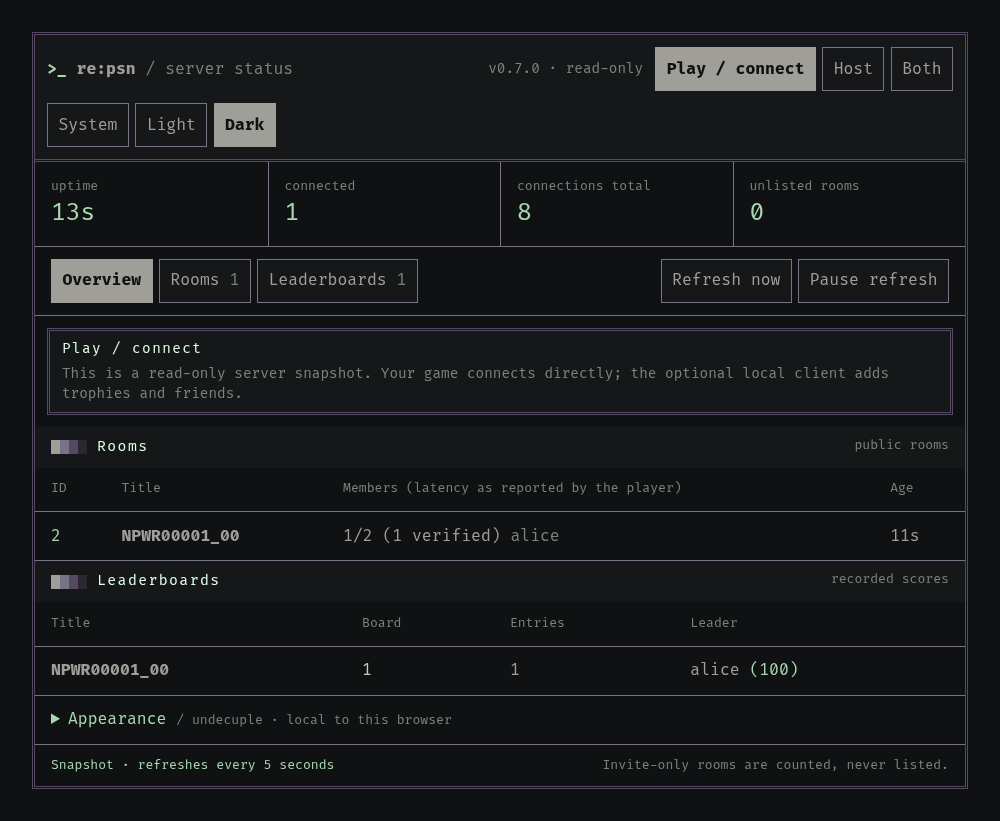
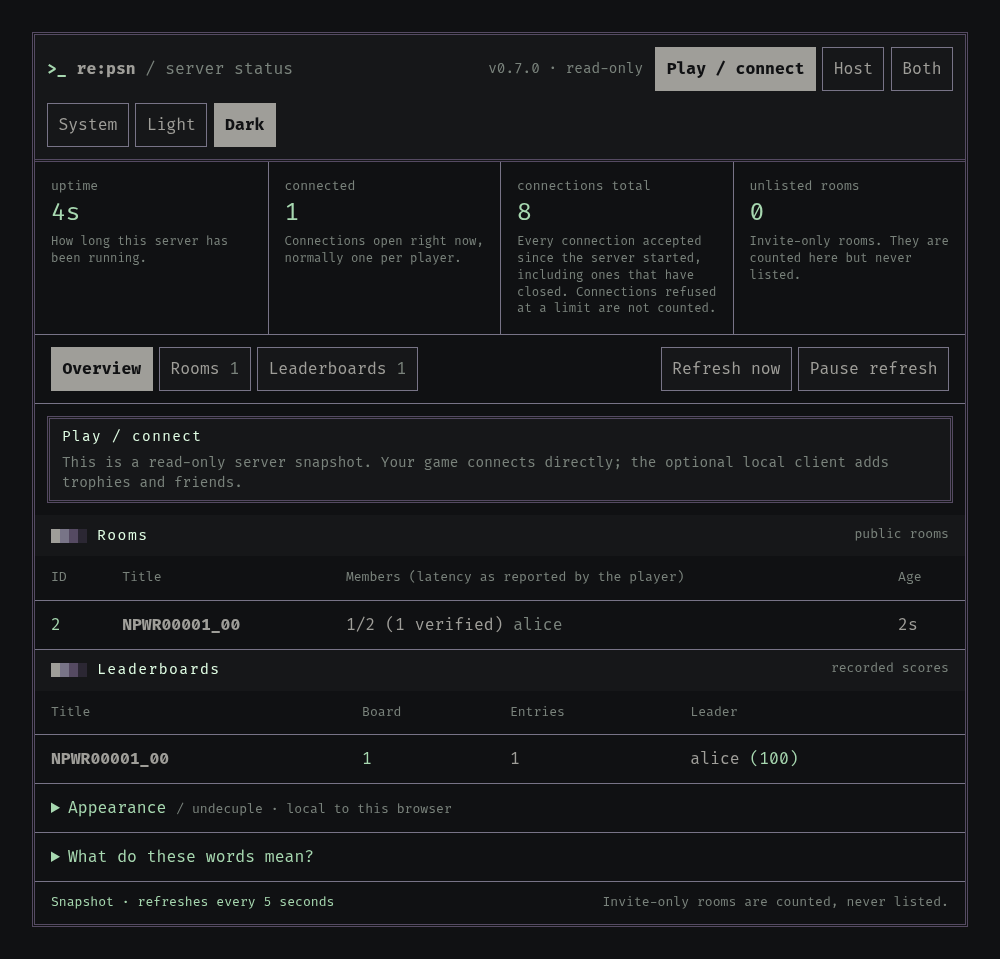
server: explain the numbers on the status page in plain words (#199)
Each number at the top of the status page now has a one-line caption saying what it counts, linked to the number for screen readers, and a section at the bottom explains the room, member, leaderboard and host terms. It needs no script. The status screenshot is retaken to match.

diff --git a/server/status.html b/server/status.html
@@ -26,10 +26,10 @@
     </div>
   </header>
   <div class="summary" aria-label="Server summary">
-    <p><span class="label">uptime</span> <strong id="uptime">{{.Uptime}}</strong></p>
-    <p><span class="label">connected</span> <strong id="clients">{{.Clients}}</strong></p>
-    <p><span class="label">connections total</span> <strong id="connections">{{.Connections}}</strong></p>
-    <p><span class="label">unlisted rooms</span> <strong id="unlisted">{{.Unlisted}}</strong></p>
+    <p><span class="label">uptime</span> <strong id="uptime" aria-describedby="uptime-hint">{{.Uptime}}</strong><span class="hint" id="uptime-hint">How long this server has been running.</span></p>
+    <p><span class="label">connected</span> <strong id="clients" aria-describedby="clients-hint">{{.Clients}}</strong><span class="hint" id="clients-hint">Connections open right now, normally one per player.</span></p>
+    <p><span class="label">connections total</span> <strong id="connections" aria-describedby="connections-hint">{{.Connections}}</strong><span class="hint" id="connections-hint">Every connection accepted since the server started, including ones that have closed. Connections refused at a limit are not counted.</span></p>
+    <p><span class="label">unlisted rooms</span> <strong id="unlisted" aria-describedby="unlisted-hint">{{.Unlisted}}</strong><span class="hint" id="unlisted-hint">Invite-only rooms. They are counted here but never listed.</span></p>
   </div>
   <div id="toolbar" class="toolbar" hidden>
     <div id="status-tabs" role="tablist" aria-label="Status view">
@@ -89,6 +89,25 @@
       </form>
       <p class="muted">Appearance is saved for this server origin, when browser storage is available. It changes no server settings.</p>
     </div>
+  </details>
+  <details id="glossary" class="words">
+    <summary>What do these words mean?</summary>
+    <dl>
+      <dt>connected</dt><dd>Connections open to the server right now. Normally one per player.</dd>
+      <dt>connections total</dt><dd>Every connection the server has accepted since it started, including ones that have closed and ones the server then turned away for a bad request. It only counts up, so it is higher than the number of players. Connections refused at a limit are not counted.</dd>
+      <dt>unlisted rooms</dt><dd>Invite-only rooms. The server counts them but never lists them.</dd>
+      <dt>Room</dt><dd>A group a player creates for a game so others can join it. Only public rooms are listed.</dd>
+      <dt>ID</dt><dd>The number the server gave the room.</dd>
+      <dt>Title</dt><dd>The game the room is for. It shows the game's name when the server knows it, and its title ID otherwise.</dd>
+      <dt>Members</dt><dd>The players in the room, out of its maximum. "(1 verified)" counts members whose network test the server has accepted. A number in ms is the delay the player reported for themselves; the server did not measure it.</dd>
+      <dt>Age</dt><dd>How long ago the room was created.</dd>
+      <dt>Leaderboard</dt><dd>Scores players have recorded for a game. Board is the leaderboard's number within the game, Entries is how many scores it holds, and Leader is the player with the best score, shown with that score.</dd>
+      <dt>Relay</dt><dd>An optional mode where the server passes game traffic between players who cannot reach each other directly. Relay payload is the amount it has carried since the server started, not the network traffic of the machine.</dd>
+      <dt>Connection limit</dt><dd>The most connections the server allows open at once. "Unlimited" means no limit is set.</dd>
+      <dt>Refused connections</dt><dd>Connections the server turned away because too many were already open in total.</dd>
+      <dt>Per-address refusals</dt><dd>Connections the server turned away because one address already had too many open.</dd>
+      <dt>Request-rate refusals</dt><dd>Connections the server closed because they sent requests too fast.</dd>
+    </dl>
   </details>
   <footer class="statusbar">
     <span id="refresh-state" role="status">Snapshot · refreshes every 5 seconds</span>

diff --git a/site/index.html b/site/index.html
@@ -360,6 +360,7 @@
 </ul>
 <h4>Changed</h4>
 <ul>
+<li>**Server status page:** each number at the top now has a one-line caption saying what it counts (for example, &quot;connections total&quot; is every connection accepted since the server started, including closed ones), and a ...</li>
 <li>**Docs and tooling:** the README&#x27;s server status screenshot is retaken (it showed v0.3.0), and five screenshots of the app (first run, Overview, Play, Host, Profile) are added to the README and the client guide.</li>
 <li>**Local browser interface:** the page now rewrites a piece of text only when it changes, so a refresh every 4 seconds no longer clears a text selection or makes screen readers announce the status line again (the clock ...</li>
 <li>**Docs and tooling:** the file list in the release notes (<code>.github/workflows/release.yml</code>) says that the <code>re-psn-app</code> archives also hold the matching <code>re-psn-host</code> server binary and that <code>install.sh --app</code> and ...</li>

diff --git a/server/status.css b/server/status.css
@@ -104,6 +104,10 @@ h1 .muted { font-weight: normal; }
 .summary p + p { border-left: 1px solid var(--frame); }
 .label { color: var(--muted); display: block; font-size: .8rem; }
 .summary strong { display: block; font-size: 1.5rem; color: var(--good); font-weight: normal; }
+.hint { color: var(--muted); display: block; font-size: .75rem; margin-top: .3rem; }
+.words dl { margin: 0; padding: 0 1rem 1rem; }
+.words dt { color: var(--text); margin-top: .8rem; }
+.words dd { color: var(--muted); margin: .15rem 0 0; font-size: .85rem; }
 .toolbar { display: flex; flex-wrap: wrap; justify-content: space-between; gap: .75rem; padding: .75rem 1rem; border-bottom: 1px solid var(--frame); }
 [role="tablist"] { display: flex; flex-wrap: wrap; gap: .4rem; }
 [role="tab"] span { color: var(--muted); font-weight: normal; }

diff --git a/server/status_theme_test.go b/server/status_theme_test.go
@@ -52,6 +52,33 @@ func TestStatusTerminalPage(t *testing.T) {
 	}
 }
 
+// Every number in the summary has a plain-words caption that its value points to, and the page explains its terms in a
+// glossary that needs no script.
+func TestStatusPlainWords(t *testing.T) {
+	var out strings.Builder
+	if err := page.Execute(&out, statsJSON{Uptime: "1m"}); err != nil {
+		t.Fatal(err)
+	}
+	html := out.String()
+	for _, id := range []string{"uptime", "clients", "connections", "unlisted"} {
+		if !strings.Contains(html, `id="`+id+`" aria-describedby="`+id+`-hint"`) || !strings.Contains(html, `id="`+id+`-hint"`) {
+			t.Errorf("the %s value has no caption linked to it", id)
+		}
+	}
+	for _, want := range []string{
+		"Every connection accepted since the server started, including ones that have closed.",
+		`<details id="glossary" class="words">`, "What do these words mean?",
+		"<dt>connections total</dt>", "<dt>Members</dt>", "<dt>Request-rate refusals</dt>",
+	} {
+		if !strings.Contains(html, want) {
+			t.Errorf("missing %q", want)
+		}
+	}
+	if strings.Contains(html, `id="glossary" class="words" hidden`) {
+		t.Error("the glossary must not depend on script to be shown")
+	}
+}
+
 func TestStatusThemeAuthenticationAndHeaders(t *testing.T) {
 	s := NewServer(10, false)
 	s.httpToken = "synthetic-status-token"

diff --git a/CHANGELOG.md b/CHANGELOG.md
@@ -11,6 +11,7 @@ All notable changes to this project are documented here. The format follows
 - **Desktop app:** a native window for the app, `re-psn-window` (a small Tauri program in `app/shell/`): it starts `re-psn-app`, shows its private launch link in a window of its own and stops the app when the window closes. `re-psn-app ui` gets `--exit-with-parent`, which stops the app cleanly when its standard input closes, so a parent program can stop it on any system. The release builds it natively for Linux (x86_64 and arm64) and Windows and puts it in the app archives. Dependencies are pinned in `app/shell/Cargo.lock`. Linux needs WebKitGTK 4.1 installed to run it, Windows the WebView2 runtime. Run on Linux with a virtual display; not run on Windows, and the install scripts do not install it yet. See `docs/client-ui.md`.
 
 ### Changed
+- **Server status page:** each number at the top now has a one-line caption saying what it counts (for example, "connections total" is every connection accepted since the server started, including closed ones), and a "What do these words mean?" section explains the room, member, leaderboard and host terms. It needs no JavaScript.
 - **Docs and tooling:** the README's server status screenshot is retaken (it showed v0.3.0), and five screenshots of the app (first run, Overview, Play, Host, Profile) are added to the README and the client guide. `tools/art/capture-app.sh` retakes them from the real app on loopback with synthetic data; like the status screenshot they are taken by hand and are not part of `make_art.py --check`.
 - **Local browser interface:** the page now rewrites a piece of text only when it changes, so a refresh every 4 seconds no longer clears a text selection or makes screen readers announce the status line again (the clock moved to its own silent element), and the Cancel and Continue buttons of the confirm popup close it themselves instead of through a form submission. Checked in Chromium 156 against the real app; not run in Edge, WebView2 or WebKitGTK, and the Edge popup report is still not reproduced.
 - **Docs and tooling:** the file list in the release notes (`.github/workflows/release.yml`) says that the `re-psn-app` archives also hold the matching `re-psn-host` server binary and that `install.sh --app` and `install.ps1 -App` install both; before, it described the app archive as one binary. Only the notes text changes: no asset, name or check.

diff --git a/docs/running.md b/docs/running.md
@@ -91,6 +91,11 @@ contrast on both backgrounds; invalid changes leave the current colours intact. 
 Choices stay in this browser's storage for the server origin; they change no server flags or other visitors' settings.
 If storage is unavailable, choices work for the current page and a message explains that they cannot be saved.
 
+Each number at the top has a one-line caption saying what it counts, and "What do these words mean?" at the bottom explains
+the room, member and leaderboard columns and the host counters in plain words. For example, "connections total" counts every
+connection the server has accepted since it started, including ones that have closed and ones it turned away for a bad
+request, so it is higher than the number of players.
+
 With JavaScript, status data refreshes every five seconds while the page is visible. Pause refresh keeps a snapshot;
 Refresh now still works while paused. A failed refresh retains the previous snapshot and shows an error. Theme, focus
 and tabs stay in place during updates. The browser fetches only this server's `/api/stats`; nothing loads from other sites.
